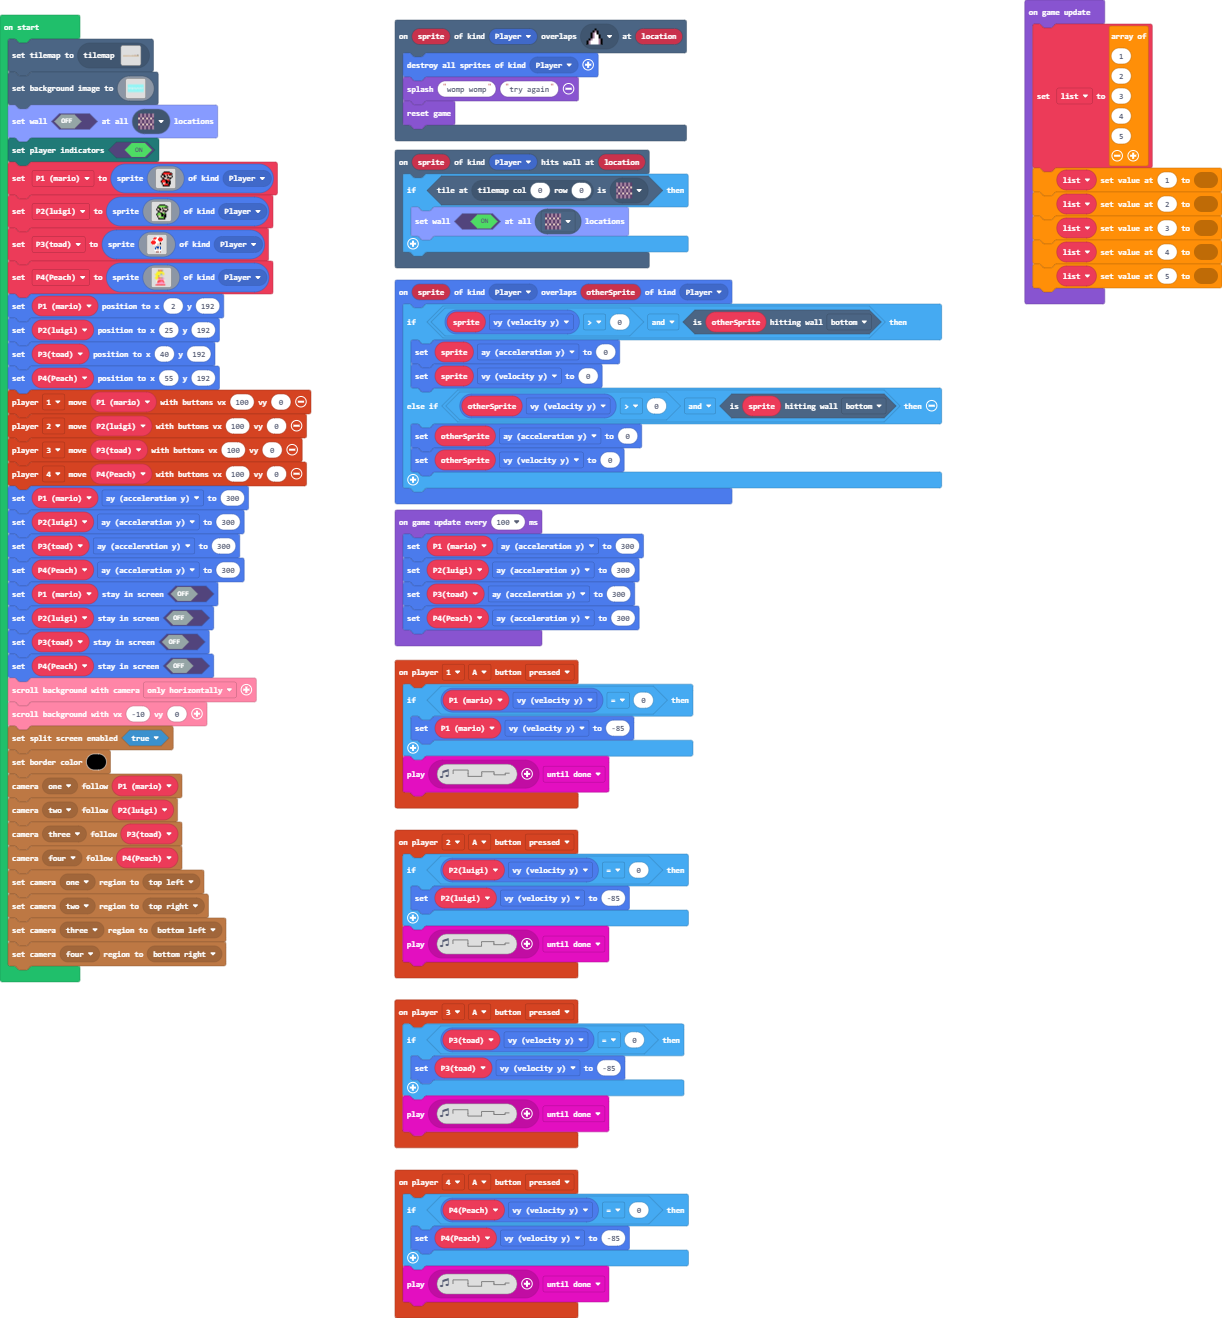
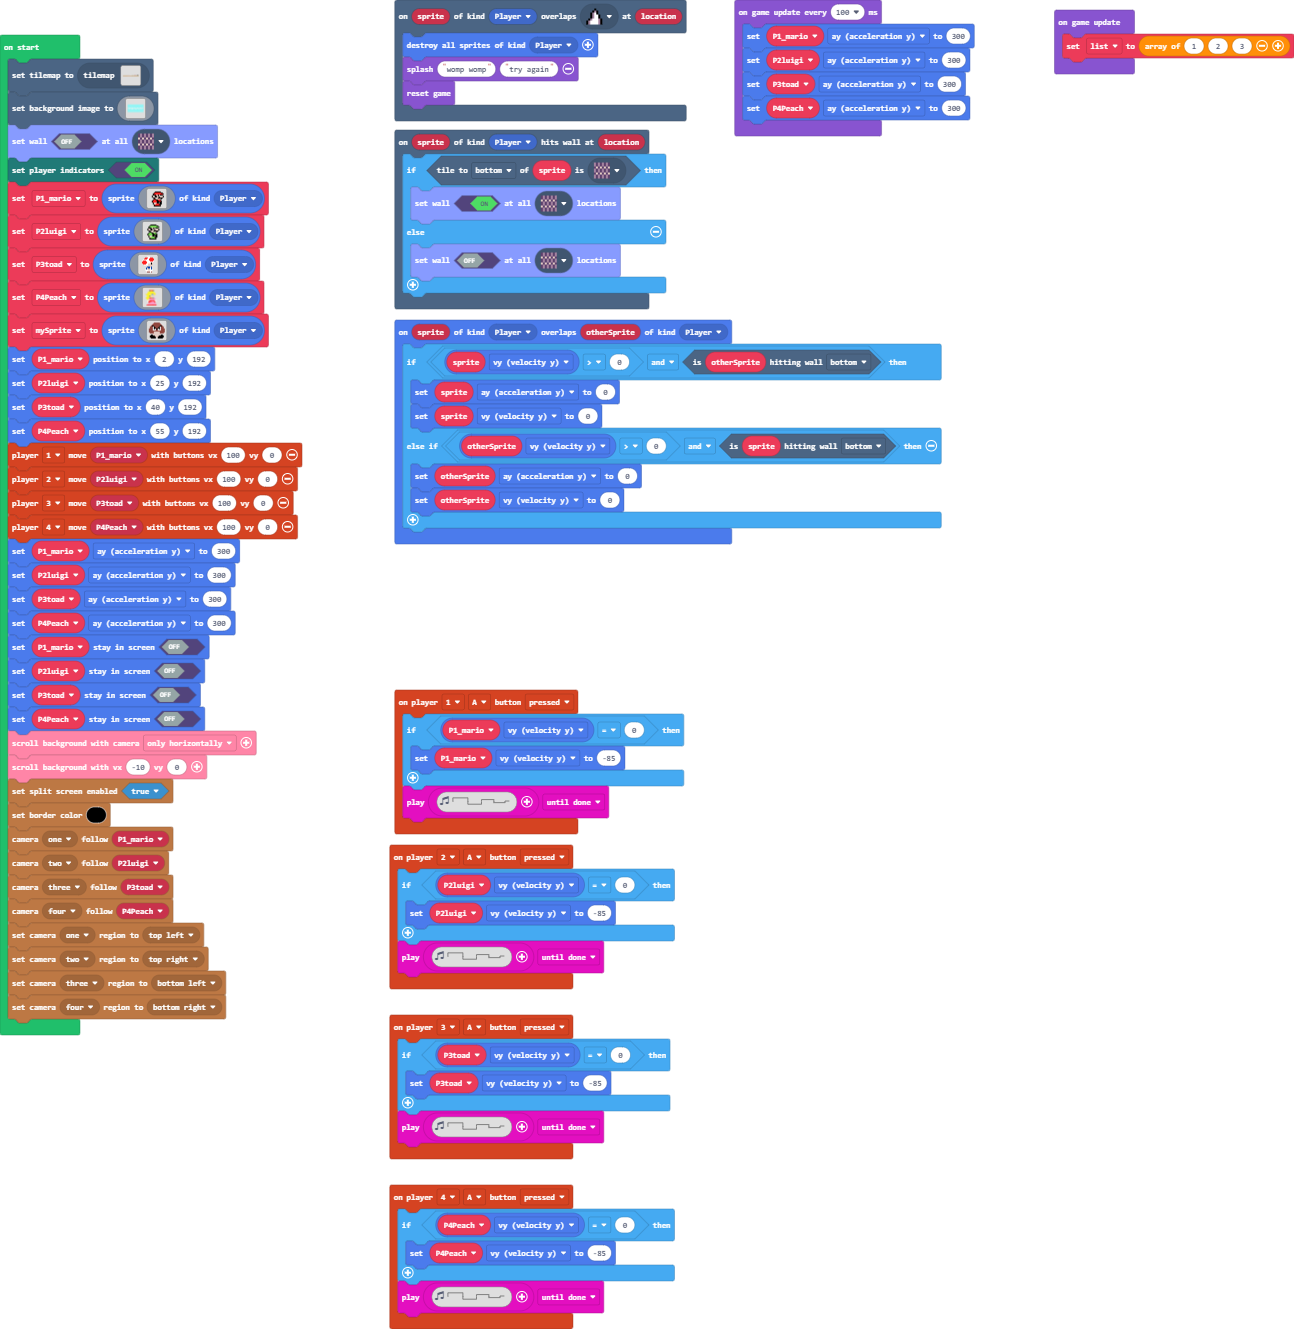
Update main.blocks, main.ts, images.g.jres, images.g.ts

diff --git a/main.ts b/main.ts
@@ -1,6 +1,8 @@
 scene.onHitWall(SpriteKind.Player, function (sprite, location) {
-    if (tiles.tileAtLocationEquals(tiles.getTileLocation(0, 0), assets.tile`myTile9`)) {
+    if (sprite.tileKindAt(TileDirection.Bottom, assets.tile`myTile9`)) {
         tileUtil.setWalls(assets.tile`myTile2`, true)
+    } else {
+        tileUtil.setWalls(assets.tile`myTile2`, false)
     }
 })
 controller.player2.onButtonEvent(ControllerButton.A, ControllerButtonEvent.Pressed, function () {
@@ -175,6 +177,7 @@ P1_mario = sprites.create(assets.image`myImage`, SpriteKind.Player)
 P2luigi = sprites.create(assets.image`myImage0`, SpriteKind.Player)
 P3toad = sprites.create(assets.image`myImage1`, SpriteKind.Player)
 P4Peach = sprites.create(assets.image`myImage2`, SpriteKind.Player)
+let mySprite = sprites.create(assets.image`GOOMBA`, SpriteKind.Player)
 P1_mario.setPosition(2, 192)
 P2luigi.setPosition(25, 192)
 P3toad.setPosition(40, 192)
@@ -204,18 +207,7 @@ splitScreen.setCameraRegion(splitScreen.Camera.Camera2, splitScreen.CameraRegion
 splitScreen.setCameraRegion(splitScreen.Camera.Camera3, splitScreen.CameraRegion.BottomLeft)
 splitScreen.setCameraRegion(splitScreen.Camera.Camera4, splitScreen.CameraRegion.BottomRight)
 game.onUpdate(function () {
-    list = [
-    1,
-    2,
-    3,
-    4,
-    5
-    ]
-    list[1] = 0
-    list[2] = 0
-    list[3] = 0
-    list[4] = 0
-    list[5] = 0
+    list = [1, 2, 3]
 })
 game.onUpdateInterval(100, function () {
     P1_mario.ay = 300

diff --git a/images.g.ts b/images.g.ts
@@ -242,6 +242,25 @@ f f f 4 7 7 7 7 f 4 7 7 7 7 7 7
 . . . . . . . . . . . . . . . . 
 . . . . . . . . . . . . . . . . 
 `;
+            case "image7":
+            case "GOOMBA":return img`
+. . . . . e e e e e e . . . . . 
+. . . . e e e e e e e e . . . . 
+. . . e e e e e e e e e e . . . 
+. . e f f e e e e e e f f e . . 
+. e e e 1 f e e e e f 1 e e e . 
+. e e e 1 f f e e f f 1 e e e . 
+e e e e 1 f 1 f f 1 f 1 e e e e 
+e e e e 1 1 1 e e 1 1 1 e e e e 
+e e e e e e e e e e e e e e e e 
+e e e e e d d d d d d e e e e e 
+. e e e e d d d d d d e e e e . 
+. . . . d d d d d d d d . . . . 
+. . f f d d d d d d d d f f . . 
+. f f f f f d d d d f f f f f . 
+. f f f f f f d d f f f f f f . 
+. . f f f f f . . f f f f f . . 
+`;
         }
         return null;
     })
